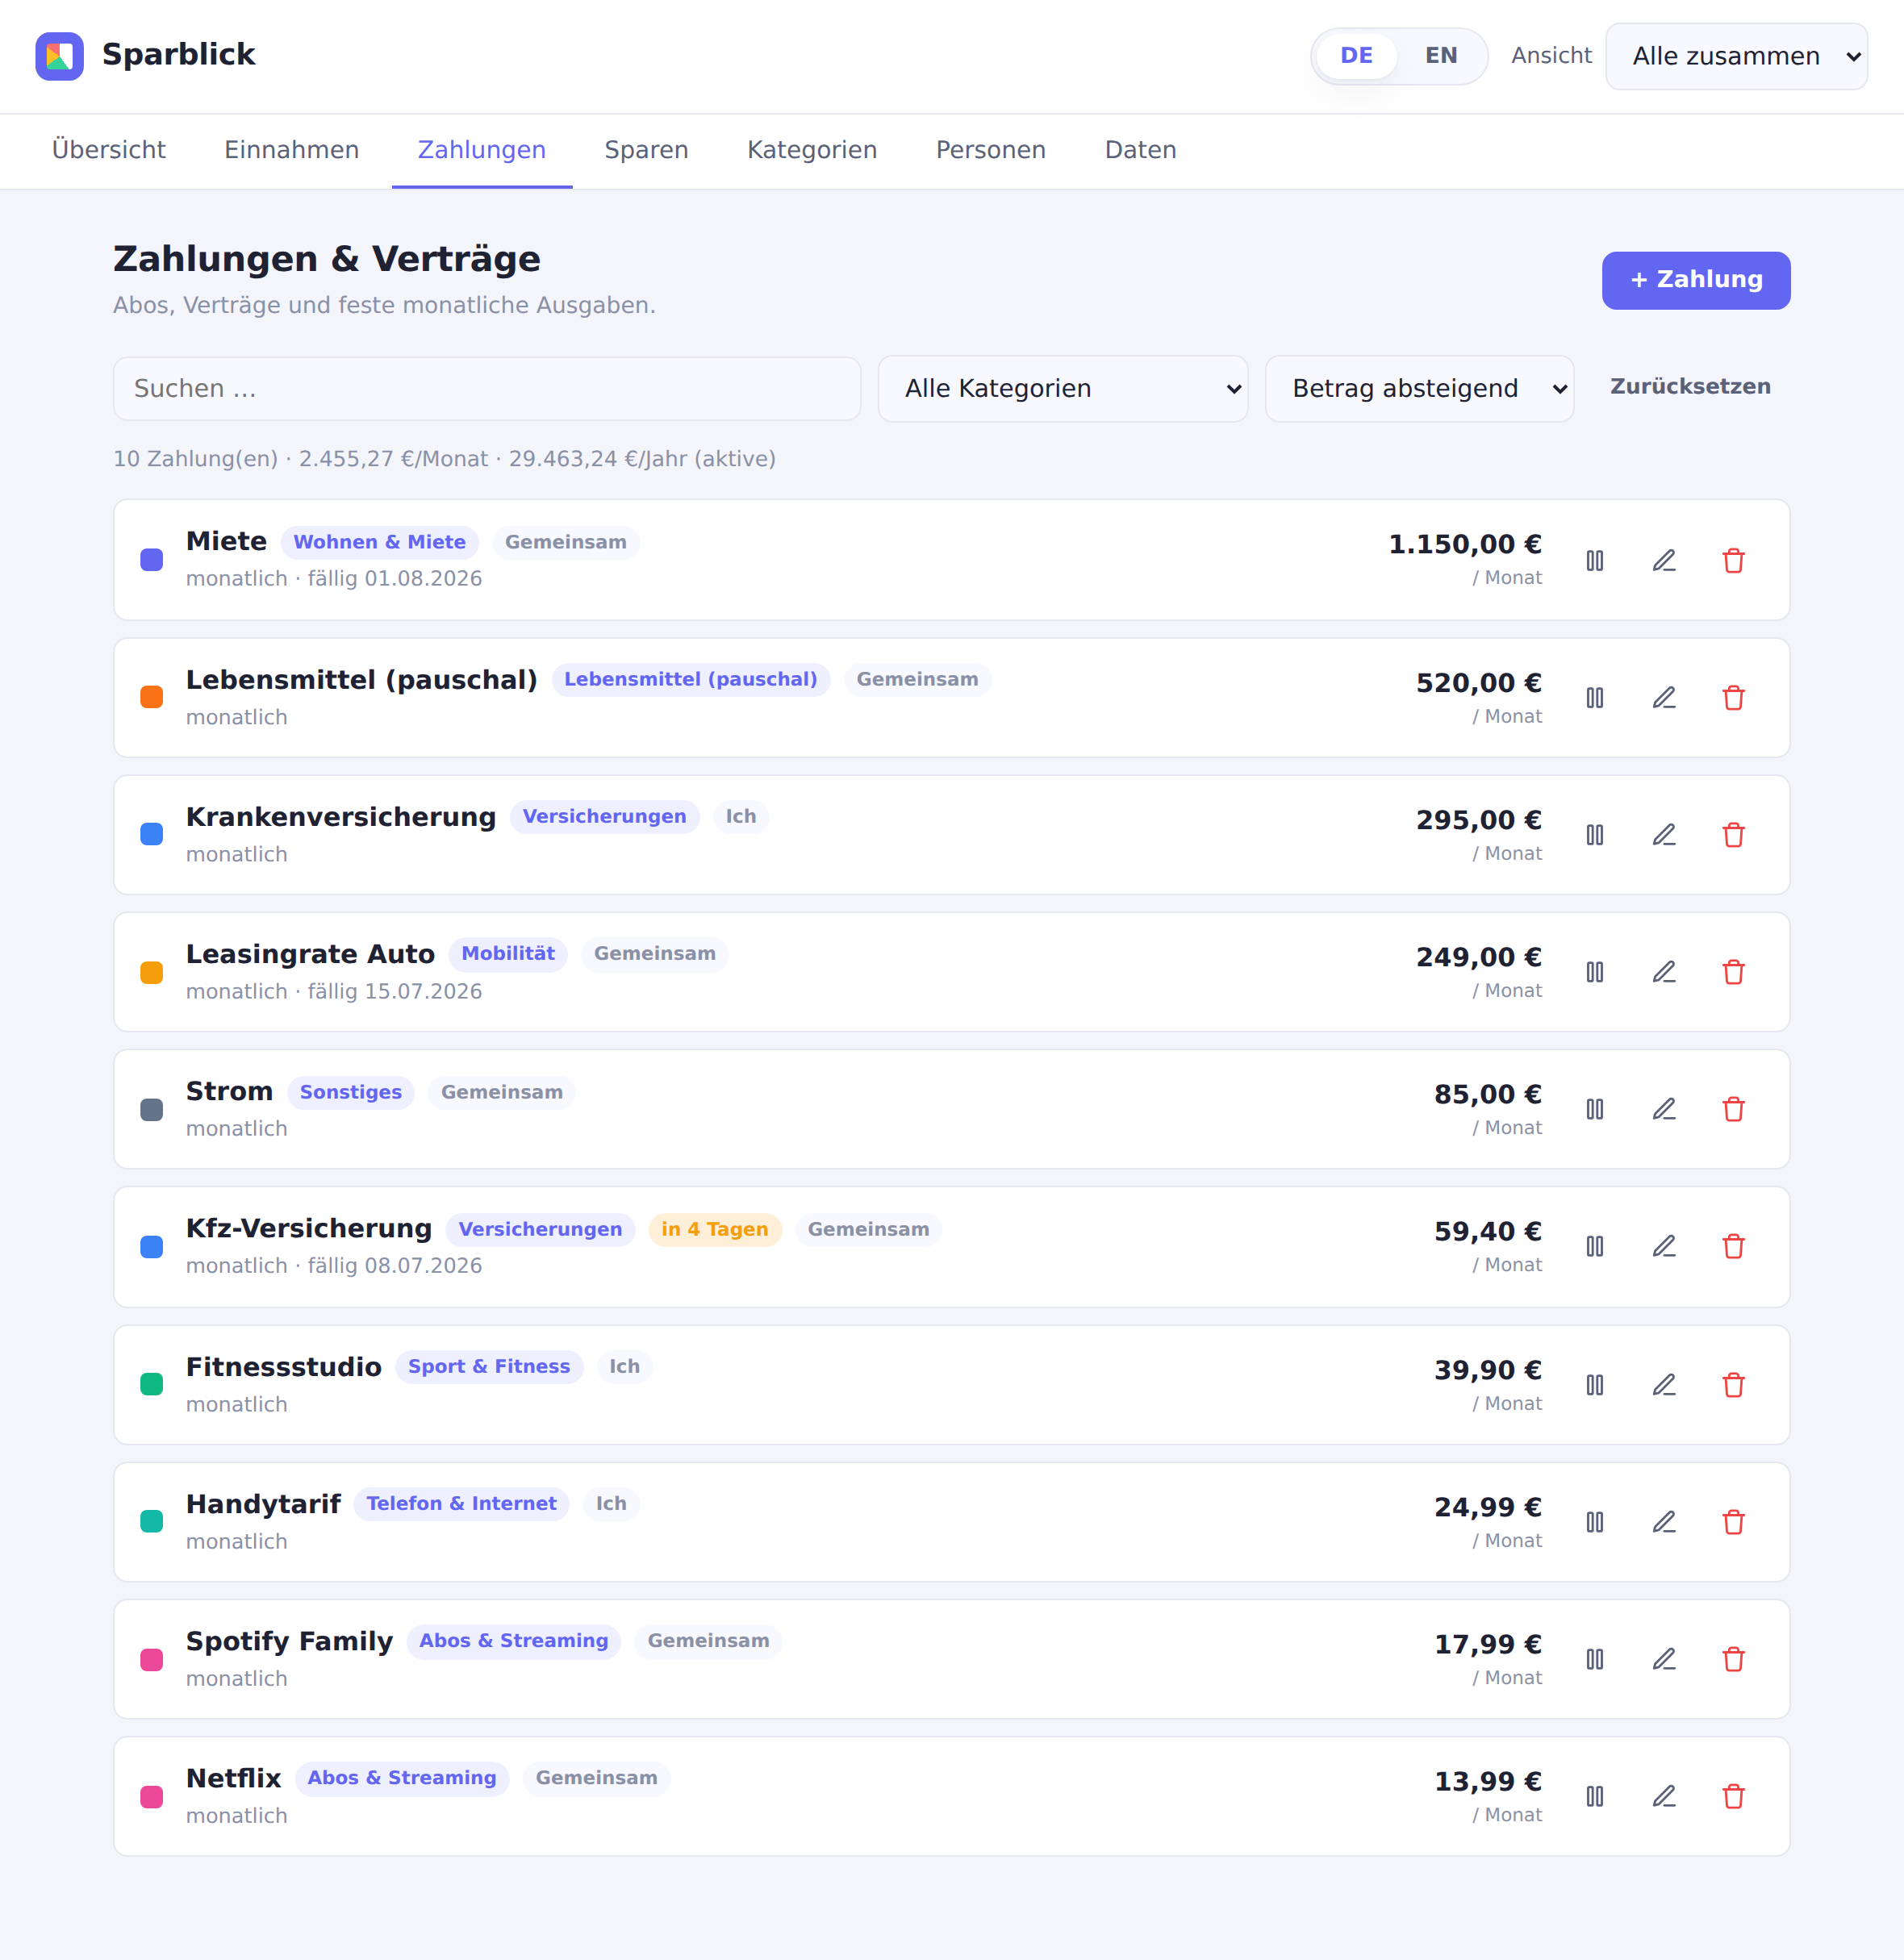
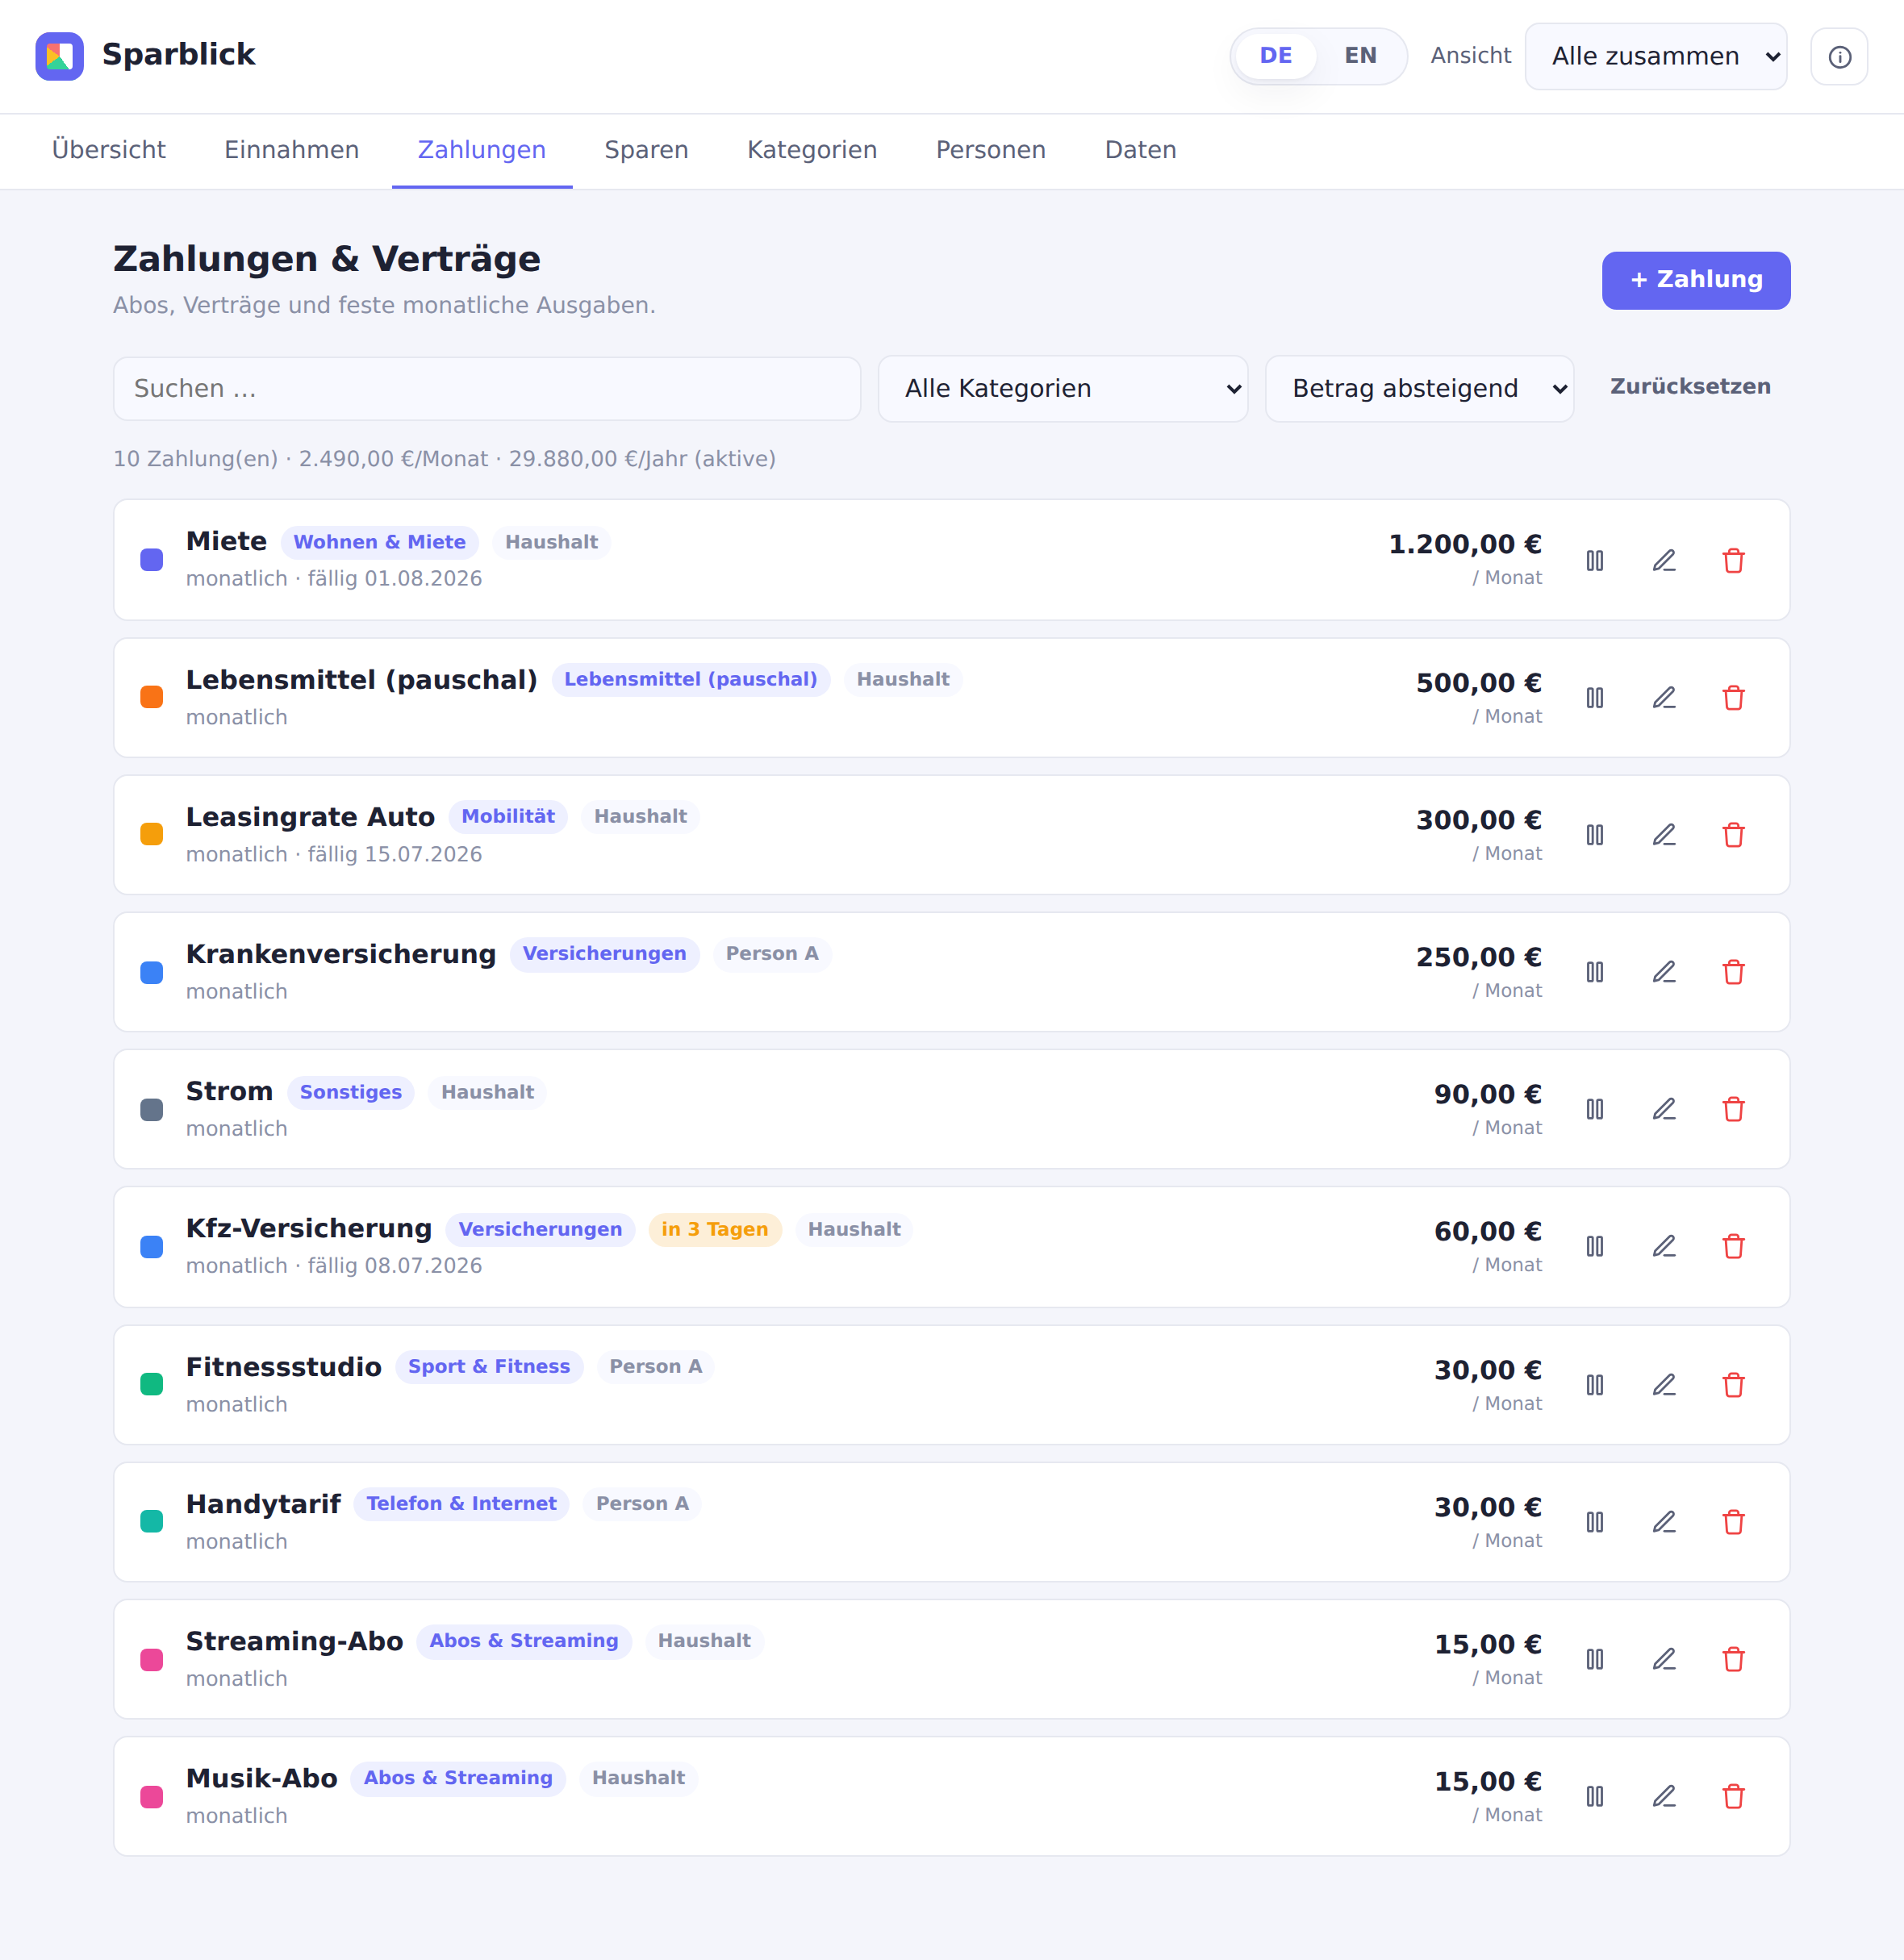
Add Amex import, aggregate buckets, randomized README screenshots
Amex (American Express) is now a third supported CSV format alongside
DKB and FYRST:

- New amexParser (comma-separated, Datum/Beschreibung/Betrag). Credit
  card sign convention is handled: positive = charge (expense), negative
  = credit/payment/refund, which is ignored.
- Aggregation is generalised from a single grocery sum to named buckets.
  Rules can carry aggregate: "grocery" | "drogerie" | "laden", each
  summed into one lump-sum suggestion with a stable key. Groceries,
  drugstore (Rossmann/DM/Müller) and EV charging (Tesla Supercharger,
  Aldi charging points) are separated - charging no longer lands in
  groceries.
- Import UI/About now list DKB, FYRST and Amex (the About bank list is
  derived from the registered parsers).

Also regenerates the README screenshots from clearly fictional sample
data (generic "Person A/B", round numbers) so no realistic-looking
figures remain. Bumps to 0.5.0.

diff --git a/src/app.js b/src/app.js
@@ -105,15 +105,17 @@
       import_question: "Wie sollen die importierten Daten übernommen werden?",
       merge: "Zusammenführen", replace: "Ersetzen", merged: "Daten zusammengeführt", replaced: "Daten ersetzt",
       // DKB-Import
-      dkb_card_title: "Import aus Bank (DKB, FYRST)",
-      dkb_card_text: "Lies eine Bank-Umsatzliste (CSV) ein – unterstützt werden DKB und FYRST. Die App erkennt wiederkehrende Zahlungen und Lebensmittel automatisch – du bestätigst per Häkchen, bevor etwas hinzugefügt wird. Umbuchungen, Steuern und Investitionen werden ignoriert.",
+      dkb_card_title: "Import aus Bank (DKB, FYRST, Amex)",
+      dkb_card_text: "Lies eine Bank-Umsatzliste (CSV) ein – unterstützt werden DKB, FYRST und Amex. Die App erkennt wiederkehrende Zahlungen und fasst Lebensmittel, Drogerie und Laden zu je einem Posten zusammen – du bestätigst per Häkchen, bevor etwas hinzugefügt wird. Umbuchungen, Steuern, Erstattungen und Investitionen werden ignoriert.",
       dkb_import_btn: " Umsatzliste (CSV) importieren",
-      dkb_not_recognized: "Kein bekanntes Bank-Format erkannt (DKB, FYRST)",
+      dkb_not_recognized: "Kein bekanntes Bank-Format erkannt (DKB, FYRST, Amex)",
       dkb_nothing: "Keine wiederkehrenden Zahlungen oder Lebensmittel gefunden",
       dkb_preview_title: "Bank-Import – Vorschau",
       dkb_preview_intro: "{n} Vorschläge erkannt · {ign} Umsätze ignoriert (Umbuchungen, Investitionen, Sonstiges).",
       dkb_for_all: "Für alle:",
       dkb_groceries: "Lebensmittel",
+      agg_drogerie: "Drogerie",
+      agg_laden: "Auto: Laden",
       dkb_add_btn: "{n} übernehmen",
       dkb_imported: "{n} Zahlung(en) importiert",
       dkb_none_selected: "Nichts ausgewählt",
@@ -214,15 +216,17 @@
       file_label: "File", import_title: "Import data",
       import_question: "How should the imported data be applied?",
       merge: "Merge", replace: "Replace", merged: "Data merged", replaced: "Data replaced",
-      dkb_card_title: "Import from bank (DKB, FYRST)",
-      dkb_card_text: "Read a bank transaction list (CSV) – DKB and FYRST are supported. The app detects recurring payments and groceries automatically – you confirm with checkboxes before anything is added. Transfers, taxes and investments are ignored.",
+      dkb_card_title: "Import from bank (DKB, FYRST, Amex)",
+      dkb_card_text: "Read a bank transaction list (CSV) – DKB, FYRST and Amex are supported. The app detects recurring payments and combines groceries, drugstore and charging into one entry each – you confirm with checkboxes before anything is added. Transfers, taxes, refunds and investments are ignored.",
       dkb_import_btn: " Import transactions (CSV)",
-      dkb_not_recognized: "No known bank format recognized (DKB, FYRST)",
+      dkb_not_recognized: "No known bank format recognized (DKB, FYRST, Amex)",
       dkb_nothing: "No recurring payments or groceries found",
       dkb_preview_title: "Bank import – preview",
       dkb_preview_intro: "{n} suggestions detected · {ign} transactions ignored (transfers, investments, other).",
       dkb_for_all: "For all:",
       dkb_groceries: "Groceries",
+      agg_drogerie: "Drugstore",
+      agg_laden: "Car: charging",
       dkb_add_btn: "Add {n}",
       dkb_imported: "{n} payment(s) imported",
       dkb_none_selected: "Nothing selected",
@@ -1208,10 +1212,21 @@
   }
 
   /* ----- Import aus Bank-Umsatzliste (CSV) ----- */
-  // Kategorie-Regeln (bank-unabhängig): erkennen wiederkehrende Zahlungen und
-  // Lebensmittel anhand von Empfänger/Verwendungszweck. Erst-Treffer gewinnt.
+  // Sammelposten: gleichartige Kleinbeträge werden pro Import zu EINER Zahlung
+  // zusammengefasst (statt vieler Einzelbuchungen). Key = stabiler Import-Schlüssel.
+  const AGG_BUCKETS = {
+    grocery:  { key: "grocery",  labelKey: "dkb_groceries", catDefId: "k_lebensmittel", catDe: "Lebensmittel (pauschal)", catEn: "Groceries (lump sum)" },
+    drogerie: { key: "drogerie", labelKey: "agg_drogerie",  catDefId: null,             catDe: "Drogerie & Haushalt",     catEn: "Drugstore & household" },
+    laden:    { key: "laden",    labelKey: "agg_laden",     catDefId: null,             catDe: "Auto & Mobilität",        catEn: "Car & mobility" },
+  };
+
+  // Kategorie-Regeln (bank-unabhängig): erkennen wiederkehrende Zahlungen bzw.
+  // ordnen Buchungen einem Sammelposten (`aggregate`) zu. Erst-Treffer gewinnt –
+  // spezielle Regeln (Laden/Drogerie) stehen daher vor der Lebensmittel-Regel.
   const CATEGORY_RULES = [
-    { re: /supermarkt|\brewe\b|\baldi\b|\blidl\b|edeka|kaufland|\bpenny\b|\bnetto\b|rossmann|\bdm\b|b(ä|ae)cker|metro|alnatura|denns|tegut/i, grocery: true },
+    { re: /ladesäule|ladesaeule|e-lade|\be-?laden\b|supercharg|\bionity\b|ewe go|aral pulse|allego|\btesla\b/i, aggregate: "laden" },
+    { re: /rossmann|\bdm\b|\bm(ü|ue)ller\b|drogerie|douglas/i, aggregate: "drogerie" },
+    { re: /supermarkt|\brewe\b|\baldi\b|\blidl\b|edeka|kaufland|\bpenny\b|\bnetto\b|b(ä|ae)cker|metro|alnatura|denns|tegut/i, aggregate: "grocery" },
     { re: /\bmiete\b/i, catDefId: "k_wohnen", catDe: "Wohnen & Miete", catEn: "Housing & rent", name: "Miete" },
     { re: /octopus|energy|energie|\bstrom\b|stadtwerke|e\.?on\b|vattenfall|enbw|mainova/i, catDefId: null, catDe: "Strom & Energie", catEn: "Electricity & energy" },
     { re: /versicher|signal iduna|baloise|allianz|\bhuk\b|\baxa\b|\bergo\b|debeka|generali|provinzial|rentenversicherung|krankenkasse|krankenversicher|\bbarmer\b|\baok\b|\bdak\b/i, catDefId: "k_versicherung", catDe: "Versicherungen", catEn: "Insurance" },
@@ -1406,28 +1421,72 @@
     },
   };
 
+  const amexParser = {
+    id: "amex",
+    label: "Amex",
+    detect(lines) { return lines.some((l) => /beschreibung/i.test(l) && /betrag/i.test(l)); },
+    parse(lines) {
+      const headerIdx = lines.findIndex((l) => /beschreibung/i.test(l) && /betrag/i.test(l));
+      if (headerIdx < 0) return null;
+      const header = splitCsvLine(lines[headerIdx], ",").map((h) => h.trim());
+      const idx = {
+        desc: header.findIndex((h) => /beschreibung|description/i.test(h)),
+        betrag: header.findIndex((h) => /betrag|amount/i.test(h)),
+        datum: header.findIndex((h) => /datum|date/i.test(h)),
+      };
+      if (idx.betrag < 0 || idx.desc < 0) return null;
+
+      const rows = [];
+      const monthCount = {}; // dominanten Monat für die Sammelposten-Bezeichnung finden
+      for (let i = headerIdx + 1; i < lines.length; i++) {
+        if (!lines[i].trim()) continue;
+        const r = splitCsvLine(lines[i], ",");
+        const amount = parseDeNum(r[idx.betrag]);
+        if (!isFinite(amount) || amount === 0) continue;
+        if (idx.datum >= 0 && amount > 0) {
+          const m = /(\d{1,2})[./](\d{1,2})[./](\d{2,4})/.exec(r[idx.datum] || "");
+          if (m) { const k = (+m[3] < 100 ? +m[3] + 2000 : +m[3]) + "-" + (+m[2]); monthCount[k] = (monthCount[k] || 0) + 1; }
+        }
+        rows.push({
+          payee: (r[idx.desc] || "").trim(),
+          purpose: "",
+          payer: "",
+          amount: Math.abs(amount),
+          expense: amount > 0, // Kreditkarte: positiv = Ausgabe, negativ = Gutschrift/Zahlung/Erstattung
+          self: false,
+        });
+      }
+      let period = "", best = 0;
+      for (const k of Object.keys(monthCount)) { if (monthCount[k] > best) { best = monthCount[k]; const p = k.split("-"); period = monthLabel(+p[1], +p[0]); } }
+      return { rows, period };
+    },
+  };
+
   // Registrierte Bank-Parser. Für eine neue Bank hier einen weiteren Parser eintragen.
-  const BANK_PARSERS = [dkbParser, fyrstParser];
+  const BANK_PARSERS = [dkbParser, fyrstParser, amexParser];
 
   // Wendet die (bank-unabhängigen) Kategorie-Regeln auf eine normalisierte
   // Buchungsliste an und fasst Lebensmittel zu einer Summe zusammen.
   function classifyRows(rows, period) {
-    let grocery = 0, ignored = 0;
+    const agg = {}; let ignored = 0;
     const suggestions = [];
     for (const row of rows) {
       if (!row.expense) continue; // nur Ausgaben
       if (!isFinite(row.amount) || row.amount <= 0) continue;
       if (row.self) { ignored++; continue; } // Umbuchung / Gemeinschaftskonto ignorieren
       const rule = CATEGORY_RULES.find((x) => x.re.test((row.payee + " " + row.purpose).toLowerCase()));
-      if (!rule) { ignored++; continue; }
-      if (rule.grocery) { grocery += row.amount; continue; }
+      if (!rule || rule.ignore) { ignored++; continue; }
+      if (rule.aggregate) { agg[rule.aggregate] = (agg[rule.aggregate] || 0) + row.amount; continue; }
       // key = stabiler Händler-Fingerabdruck (überlebt das Umbenennen der Zahlung)
       suggestions.push({ name: rule.name || cleanMerchant(row.payee), key: "m:" + normName(row.payee), betrag: row.amount, catDefId: rule.catDefId, catDe: rule.catDe, catEn: rule.catEn });
     }
-    if (grocery > 0) {
-      grocery = Math.round(grocery * 100) / 100;
-      suggestions.push({ name: t("dkb_groceries") + (period ? " (" + period + ")" : ""), key: "grocery", betrag: grocery,
-        catDefId: "k_lebensmittel", catDe: "Lebensmittel (pauschal)", catEn: "Groceries (lump sum)" });
+    // Sammelposten je Kategorie (Lebensmittel, Drogerie, Laden …) als eine Zahlung
+    for (const id of Object.keys(AGG_BUCKETS)) {
+      const sum = Math.round((agg[id] || 0) * 100) / 100;
+      if (sum <= 0) continue;
+      const bkt = AGG_BUCKETS[id];
+      suggestions.push({ name: t(bkt.labelKey) + (period ? " (" + period + ")" : ""), key: bkt.key, betrag: sum,
+        catDefId: bkt.catDefId, catDe: bkt.catDe, catEn: bkt.catEn });
     }
     let backfilled = false;
     suggestions.forEach((s) => { const r = suggestionExists(s); s.exists = r.exists; if (r.backfilled) backfilled = true; });

diff --git a/README.md b/README.md
@@ -26,9 +26,9 @@ per Suche, Kategorie und Sortierung filterbar:
 
 ![Zahlungen und Verträge](docs/img/zahlungen.png)
 
-**Bank-Import (DKB & FYRST)** – aus einer Umsatzliste (CSV) werden wiederkehrende Zahlungen
-erkannt und Lebensmittel zusammengefasst; du bestätigst per Häkchen, bereits vorhandene
-Zahlungen werden markiert (Beispieldaten):
+**Bank-Import (DKB, FYRST & Amex)** – aus einer Umsatzliste (CSV) werden wiederkehrende Zahlungen
+erkannt und Lebensmittel/Drogerie/Laden zusammengefasst; du bestätigst per Häkchen, bereits
+vorhandene Zahlungen werden markiert (frei erfundene Beispieldaten):
 
 ![Bank-Import – Vorschau](docs/img/import.png)
 
@@ -57,13 +57,14 @@ Zahlungen werden markiert (Beispieldaten):
   oben rechts lässt sich alles zusammen oder pro Person betrachten – die Grundlage für
   später vollständig getrennte Budgets. Beim Löschen einer Person werden ihre Einträge
   automatisch einer anderen Person zugewiesen (keine Daten gehen verloren).
-- **Bank-Import (DKB & FYRST):** Unter **Daten** lässt sich eine **Umsatzliste (CSV)**
-  einlesen – aktuell werden die Formate von **DKB** und **FYRST** erkannt. Die App erkennt
-  automatisch **wiederkehrende Zahlungen** (Miete, Versicherungen inkl. Krankenkasse, Strom,
-  Abos, Telefon, Auto/KFZ, Software …) und fasst alle **Lebensmitteleinkäufe** (inkl.
-  Bäckereien) zu **einer pauschalen Zahlung** zusammen. Umbuchungen aufs eigene oder
-  **Gemeinschaftskonto**, **Steuern**, Investitionen und Bargeld-Abhebungen werden
-  **ignoriert**. Es wird nichts automatisch übernommen – jeder Vorschlag wird in einer
+- **Bank-Import (DKB, FYRST & Amex):** Unter **Daten** lässt sich eine **Umsatzliste (CSV)**
+  einlesen – aktuell werden die Formate von **DKB**, **FYRST** und **American Express** erkannt
+  (Amex mit umgekehrtem Vorzeichen: Gutschriften/Zahlungen werden korrekt ausgenommen). Die App
+  erkennt automatisch **wiederkehrende Zahlungen** (Miete, Versicherungen inkl. Krankenkasse,
+  Strom, Abos, Telefon, Auto/KFZ, Software …) und fasst gleichartige Kleinbeträge zu je **einem
+  Sammelposten** zusammen: **Lebensmittel** (inkl. Bäckereien), **Drogerie & Haushalt** und
+  **Auto: Laden** (E-Auto). Umbuchungen aufs eigene oder **Gemeinschaftskonto**, **Steuern**,
+  Investitionen, Erstattungen und Bargeld-Abhebungen werden **ignoriert**. Es wird nichts automatisch übernommen – jeder Vorschlag wird in einer
   **Vorschau per Häkchen bestätigt**; bereits vorhandene Zahlungen werden erkannt und nicht
   doppelt angelegt (sicher beim monatlichen Re-Import) – **auch wenn du die Zahlung
   umbenannt hast**, denn jede importierte Zahlung merkt sich intern ihren Ursprung. Der